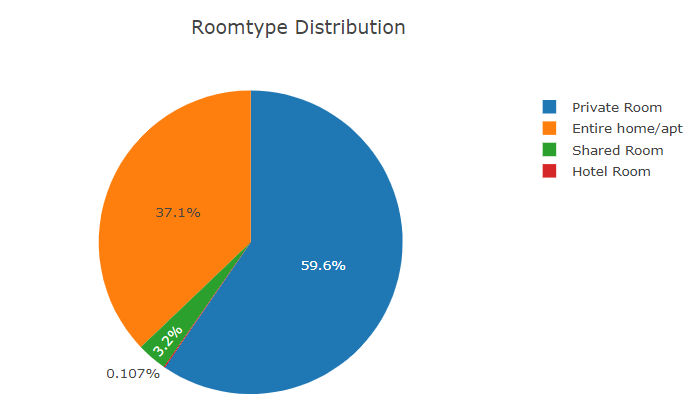
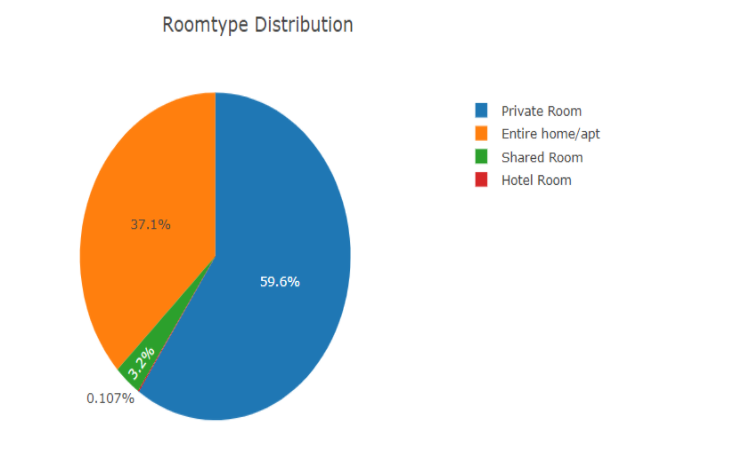
resize graph cards to make them even

Changed region(s): [[0.0906, 0.1871, 0.6043, 0.9664], [0.6345, 0.2182, 0.9971, 0.4365], [0.2115, 0.0312, 0.5741, 0.0935]]

diff --git a/actualApp/template/index.html b/actualApp/template/index.html
@@ -4,17 +4,6 @@
   <meta charset="UTF-8">
   <title>NYC Airbnb Analysis</title>
 
-<<<<<<< HEAD
-  <!-- Leaflet CSS -->
-  <link rel="stylesheet" href="https://unpkg.com/leaflet@1.3.3/dist/leaflet.css"
-  integrity="sha512-Rksm5RenBEKSKFjgI3a41vrjkw4EVPlJ3+OiI65vTjIdo9brlAacEuKOiQ5OFh7cOI1bkDwLqdLw3Zg0cRJAAQ=="
-  crossorigin=""/>
-
- <!-- Icons -->
- <link rel="stylesheet" type="text/css" href="http://code.ionicframework.com/ionicons/2.0.1/css/ionicons.min.css">
- <link rel="stylesheet" href="static/css/leaflet.extra-markers.min.css">
-
-=======
   
     <!-- Leaflet CSS -->
     <link rel="stylesheet" href="https://unpkg.com/leaflet@1.3.3/dist/leaflet.css"
@@ -26,7 +15,6 @@
  <!-- Marker Cluster CSS -->
  <link rel="stylesheet" type="text/css" href="https://unpkg.com/leaflet.markercluster@1.0.3/dist/MarkerCluster.css">
  <link rel="stylesheet" type="text/css" href="https://unpkg.com/leaflet.markercluster@1.0.3/dist/MarkerCluster.Default.css">
->>>>>>> 7473301639f25c871c9b2c07edcd0fd6047504f6
 
   <!-- Our CSS -->
   <link rel="stylesheet" type="text/css" href="../static/css/style1.css">
@@ -309,74 +297,30 @@
                     <!-- Content Row -->
 
                     <div class="row">
-
-                        <!-- LINE GRAPH -->
-                        <div class="col-lg-6 mb-4">
-                            <div class="card shadow mb-4">
-                                <!-- Card Header - Dropdown -->
-                                <div
-                                    class="card-header py-3 d-flex flex-row align-items-center justify-content-between">
-                                    <h6 class="m-0 font-weight-bold text-primary">Line Graph</h6>
-                                    <div class="dropdown no-arrow">
-                                        <a class="dropdown-toggle" href="#" role="button" id="dropdownMenuLink"
-                                            data-toggle="dropdown" aria-haspopup="true" aria-expanded="false">
-                                            <i class="fas fa-ellipsis-v fa-sm fa-fw text-gray-400"></i>
-                                        </a>
-                                        <div class="dropdown-menu dropdown-menu-right shadow animated--fade-in"
-                                            aria-labelledby="dropdownMenuLink">
-                                            <div class="dropdown-header">Dropdown Header:</div>
-                                            <a class="dropdown-item" href="#">Action</a>
-                                            <a class="dropdown-item" href="#">Another action</a>
-                                            <div class="dropdown-divider"></div>
-                                            <a class="dropdown-item" href="#">Something else here</a>
-                                        </div>
-                                    </div>
-                                </div>
-                                <!-- Card Body -->
-                                <div class="card-body">
-                                    <a href = "/graphs"><img src="static/css/line.png" alt="Yearly Average Rate" width = 600 height = 400></a>
-                                    <div class="chart-area">
-                                        <canvas id="myAreaChart"></canvas>
-                                    </div>
-                                </div>
+                        <div class="col-lg-6">
+                        <div class="card shadow mb-4">
+                            <div class="card-header py-3">
+                                <h6 class="m-0 font-weight-bold text-primary">Line Graph</h6>
+                            </div>
+                            <div class="card-body">
+                                <a href = "/graphs"><img src="static/css/line.png" alt="Yearly Average Rate" width = 550 height = 400></a>
+                            <a href =><img src =></a>
                             </div>
                         </div>
-
-                        <!-- GRAPH -->
-                        <div class="col-lg-6 mb-4">
-                            <div class="card shadow mb-4">
-                                <!-- Card Header - Dropdown -->
-                                <div
-                                    class="card-header py-3 d-flex flex-row align-items-center justify-content-between">
-                                    <h6 class="m-0 font-weight-bold text-primary">Pie Chart</h6>
-                                    <div class="dropdown no-arrow">
-                                        <a class="dropdown-toggle" href="#" role="button" id="dropdownMenuLink"
-                                            data-toggle="dropdown" aria-haspopup="true" aria-expanded="false">
-                                            <i class="fas fa-ellipsis-v fa-sm fa-fw text-gray-400"></i>
-                                        </a>
-                                        <div class="dropdown-menu dropdown-menu-right shadow animated--fade-in"
-                                            aria-labelledby="dropdownMenuLink">
-                                            <div class="dropdown-header">Dropdown Header:</div>
-                                            <a class="dropdown-item" href="#">Action</a>
-                                            <a class="dropdown-item" href="#">Another action</a>
-                                            <div class="dropdown-divider"></div>
-                                            <a class="dropdown-item" href="#">Something else here</a>
-                                        </div>
-                                    </div>
-                                </div>
-                                <!-- Card Body -->
-                                <div class="card-body">
-                                    <a href = "/graphs"><img src="static/css/pie.png" alt="Room Distribution" width = 500 ></a>
-                                    <div class="chart-pie pt-4 pb-2">
-                                        <canvas id="myPieChart"></canvas>
-                      
-                                    </div>
+                    </div>
+                    <div class="col-lg-6">
+                        <div class="card shadow mb-4">
+                            <div class="card-header py-3">
+                                <h6 class="m-0 font-weight-bold text-primary">Pie Chart</h6>
+                            </div>
+                            <div class="card-body">
+                                <a href = "/graphs"><img src="static/css/pie.png" alt="Yearly Average Rate" width = 550 height = 400></a>
                             
-                                </div>
                             </div>
                         </div>
-                    </div>                
-                        </div>
+                    </div>
+
+
 
                         <div class="col-lg-12 mb-8">
                             <!-- Marker Cluster -->
@@ -471,13 +415,9 @@
   integrity="sha512-tAGcCfR4Sc5ZP5ZoVz0quoZDYX5aCtEm/eu1KhSLj2c9eFrylXZknQYmxUssFaVJKvvc0dJQixhGjG2yXWiV9Q=="
   crossorigin=""></script>
 
-<<<<<<< HEAD
-  
-=======
 
  <!-- Marker Cluster JS -->
  <script type="text/javascript" src="https://unpkg.com/leaflet.markercluster@1.0.3/dist/leaflet.markercluster.js"></script>
->>>>>>> 7473301639f25c871c9b2c07edcd0fd6047504f6
 
   <!-- API Key -->
   <script type="text/javascript" src="../static/js/config.js"></script>
